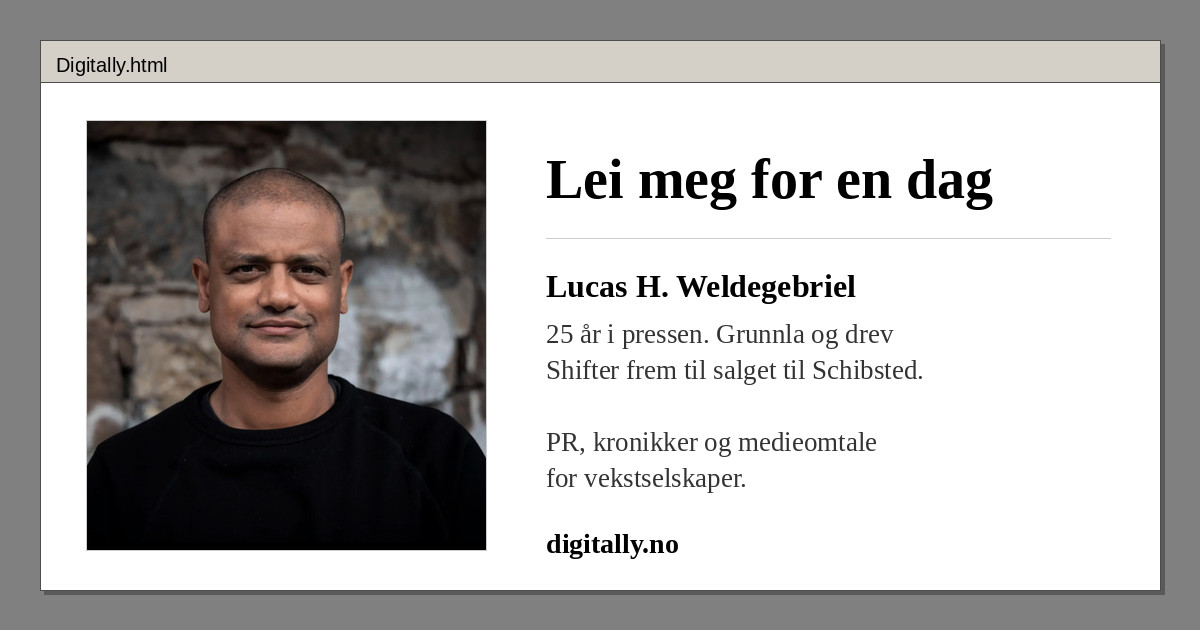
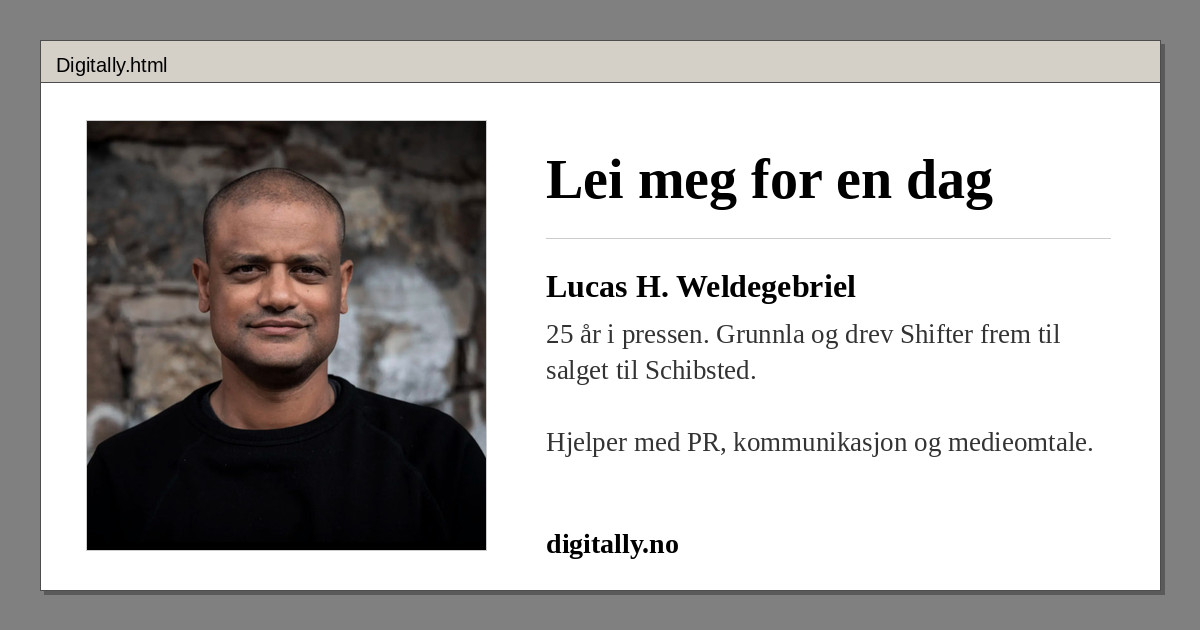
Oppdater formulering: hjelper med PR, kommunikasjon og medieomtale

diff --git a/index.html b/index.html
@@ -3,7 +3,7 @@
 <head>
 <meta charset="UTF-8">
 <meta name="viewport" content="width=device-width, initial-scale=1">
-<meta name="description" content="Lei en erfaren kommunikasjonsrådgiver for én dag. Lucas H. Weldegebriel – 25 år i pressen, grunnlegger av Shifter – hjelper vekstselskaper med PR og medieomtale.">
+<meta name="description" content="Lei en erfaren kommunikasjonsrådgiver for én dag. Lucas H. Weldegebriel – 25 år i pressen, grunnlegger av Shifter – hjelper med PR, kommunikasjon og medieomtale.">
 <link rel="canonical" href="https://digitally.no/">
 <meta name="robots" content="index, follow">
 <meta property="og:type" content="website">
@@ -57,7 +57,7 @@
   "telephone": "+4798644403",
   "areaServed": "NO",
   "priceRange": "35000 NOK",
-  "description": "PR- og kommunikasjonsrådgivning for vekstselskaper. Lei en erfaren rådgiver for én dag.",
+  "description": "Hjelper med PR, kommunikasjon og medieomtale. Lei en erfaren rådgiver for én dag.",
   "founder": {
     "@type": "Person",
     "name": "Lucas H. Weldegebriel",
